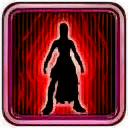
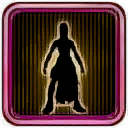
Промежуточный коммит 228.

diff --git a/WaaaHa!-patcher.React/src/gameData/layouts.ts b/WaaaHa!-patcher.React/src/gameData/layouts.ts
@@ -25,6 +25,17 @@ import type { FactionKey } from './factions'
  *       WeaponUpgrade: ['marine_flamer'],
  *     },
  *   },
+ * 
+ * Ключ	Фракция
+*   marine	Космодесант
+*   chaos	Хаос
+*   ork	Орки
+*   eldar	Эльдары
+*   tau	Тау
+*   necron	Некроны
+*   guard	Имперская гвардия
+*   dark_eldar	Тёмные эльдары
+*   sisters	Сестры битвы
  *
  * Отдельных списков «Войска» и «Строения» нет, и писать их не нужно: левая
  * колонка сетки берёт «Войска» из Infantry с Vehicle, а «Строения» из Building.
@@ -210,6 +221,8 @@ export const PANEL_COMMANDS: readonly string[] = [
   
   'cancel_overwatch',
   'toggle_overwatch',
+  PANEL_ROW_BREAK,
+  'camera_panleft', 'camera_panright', 'camera_panup', 'camera_pandown', 'camera_rotate', 'camera_defaultcam',
 ]
 
 /** Состав рас. */
@@ -251,9 +264,46 @@ export const FACTION_ROSTERS: Readonly<Partial<Record<FactionKey, FactionRoster>
       Addon: [
         'marine_hq_addon_1', 'marine_hq_addon_2', 'marine_missile_launcher_turret', 'marine_listening_post_1', 'marine_listening_post_2',
         'marine_heavy_armor_deployment'
-      ],
+      ]
      },
    },
+
+   sisters: {
+    sections: {
+      Infantry: [
+        'sisters_servitor', 'sisters_missionary', 'sisters_battle_sister', 'sisters_canoness', 'sisters_seraphim', 'sisters_celestian', 'sisters_confessor',
+        'sisters_assassin', 'sisters_repentia', 'sisters_ascension_angel', 'sisters_living_saint'
+      ],
+      Vehicle: [
+        'sisters_rhino', 'sisters_immolator_tank', 'sisters_lightning', 'sisters_exorcist_tank', 'sisters_penitent_engine'
+      ],
+      Building: [
+        'sisters_hq', 'sisters_infantry', 'sisters_listening_post', 'sisters_generator', 'sisters_sanctuary', 'sisters_holy_reliquary', 'sisters_thermo_generator',
+        'sisters_vehicle_building', 'sisters_turret_flamer', 'sisters_mines', 'sisters_shrine'
+      ],
+      Ability: [
+        'sisters_laud_hailer', 'sisters_lay_hands', 'sisters_emperors_touch', 'sisters_divine_retribution', 'sisters_divine_light',
+        'sisters_ascension', 'sisters_phosphor_grenades', 'sisters_krak_grenades', 'jump', 'sisters_angelic_visage', 'sisters_witch_hammer',
+        'sisters_divine_pronouncement', 'sisters_righteous_fervor', 'sisters_ardent_flame'
+      ],
+      Research: [
+        'sisters_research_emperors_touch', 'sisters_research_divine_retribution', 'sisters_research_phosphor_grenades', 'sisters_research_krak_grenades',
+        'sisters_upgrade_requisition_1', 'sisters_upgrade_requisition_2', 'sisters_upgrade_power_1', 'sisters_upgrade_power_2',
+        'sisters_research_max_weapons', 'sisters_research_zealot_charge', 'sisters_research_blessed_ammunition',
+        'sisters_research_health', 'sisters_research_health_2', 'sisters_research_ranged_damage', 'sisters_research_ranged_damage_2',
+        'sisters_research_leader_melee_1', 'sisters_research_leader_melee_2', 'sisters_research_leader_range', 'sisters_research_laud_hailer',
+        'sisters_research_vehicle_armor', 'sisters_vehicle_cap', 'sisters_research_conflagration', 'sisters_research_holy_promethium',
+        'sisters_research_commander_health_1', 'sisters_research_commander_health_2', 'sisters_research_divine_pronouncement', 'sisters_research_ascension',
+        'sisters_research_martyrs_gift', 'sisters_research_faithful_morale', 'sisters_upgrade_heart_of_worship',
+      ],
+      WeaponUpgrade: [
+        'sisters_flamer', 'sisters_heavy_bolter', 'sisters_meltagun', 'sisters_multi_melta'
+      ],
+      Addon: [
+        'addon_sisters_hq_1', 'addon_sisters_hq_2', 'addon_sisters_turret', 'addon_sisters_list_post_1', 'addon_sisters_list_post_2', 'addon_sisters_holy_icon'
+      ]
+    }
+   }
 }
 
 /** Панели юнитов и строений.
@@ -267,6 +317,163 @@ export const FACTION_ROSTERS: Readonly<Partial<Record<FactionKey, FactionRoster>
   },
 */
 export const UNIT_LAYOUTS: Readonly<Record<string, UnitLayout>> = {
+
+  sisters_servitor: {
+    command: [
+      'move', 'stop', '', '',
+      'build', 'repair', '', '',
+      'sisters_dismantle'
+    ],
+    second: [
+      'sisters_hq', 'sisters_infantry', 'sisters_listening_post', 'sisters_generator',
+      'sisters_sanctuary', 'sisters_vehicle_building', 'sisters_holy_reliquary', 'sisters_thermo_generator',
+      'sisters_shrine', 'sisters_mines', 'sisters_turret_flamer', 'escape'
+    ],
+    improvements: ['']
+  },
+
+  sisters_missionary: {
+    command: [
+      'move', 'stop', 'attackmove', 'attackmelee',
+      '', '', '@panel_yellow', '@panel_melee',
+      'sisters_lay_hands', 'sisters_emperors_touch', 'sisters_divine_retribution'
+    ],
+    second: [''],
+    improvements: [
+      '', '',
+      '', '',
+      '', '',
+      'attach'
+    ]
+  },
+
+  sisters_battle_sister: {
+    command: [
+      'move', 'stop', 'attackmove', 'attackmelee',
+      '', 'sisters_phosphor_grenades', '@panel_yellow', '@panel_gun',
+    ],
+    second: [''],
+    improvements: [
+      'reinforce', 'sisters_veteran_superior',
+      'sisters_flamer', 'sisters_heavy_bolter',
+    ]
+  },
+
+  sisters_canoness: {
+    command: [
+      'move', 'stop', 'attackmove', 'attackmelee',
+      'sisters_ascension', '', '@panel_yellow', '@panel_melee',
+      'sisters_divine_light'
+    ],
+    second: [''],
+    improvements: [
+      '', '',
+      '', '',
+      '', '',
+      'attach'
+    ]
+  },
+
+  sisters_seraphim: {
+    command: [
+      'move', 'stop', 'attackmove', 'attackmelee',
+      '', 'sisters_krak_grenades', '@panel_yellow', '@panel_gun',
+      'sisters_angelic_visage', '', '', 'jump'
+    ],
+    second: [''],
+    improvements: ['reinforce', 'sisters_veteran_superior_seraphim']
+  },
+
+  sisters_celestian: {
+    command: [
+      'move', 'stop', 'attackmove', 'attackmelee',
+      '', 'sisters_krak_grenades', '@panel_yellow', '@panel_gun',
+    ],
+    second: [''],
+    improvements: [
+      'reinforce', '',
+      'sisters_veteran_superior_celestian', 'sisters_celestian_imagifer',
+      'sisters_meltagun', 'sisters_multi_melta'
+    ]
+  },
+
+  sisters_confessor: {
+    command: [
+      'move', 'stop', 'attackmove', 'attackmelee',
+      '', '', '@panel_yellow', '@panel_melee',
+      'sisters_witch_hammer'
+    ],
+    second: [
+      '', '', '', '',
+      '', '', '', '',
+      'sisters_divine_pronouncement', 'sisters_witch_hammer'
+    ],
+    improvements: [
+      '', '',
+      '', '',
+      '', '',
+      'attach'
+    ]
+  },
+
+  sisters_assassin: {
+    command: [
+      'move', 'stop', 'attackmove', 'attackmelee',
+      '', '', '@panel_yellow'
+    ],
+    second: [''],
+    improvements: ['']
+  },
+
+  sisters_repentia: {
+    command: [
+      'move', 'stop', 'attackmove', 'attackmelee',
+      '', 'sisters_righteous_fervor', '@panel_yellow'
+    ],
+    second: [''],
+    improvements: ['reinforce', 'sisters_repentia_mistress']
+  },
+
+  sisters_hq: {
+    command: [
+      'sisters_servitor', 'sisters_missionary', '', 'sisters_confessor',
+      'sisters_research_emperors_touch', 'sisters_research_divine_retribution', '', '',
+      'addon_sisters_hq_1', '', '', 'sisters_laud_hailer'
+    ],
+    second: [
+      '', '', '', '',
+      '', '', '', '',
+      'addon_sisters_hq_2'
+    ],
+    improvements: ['rally', '@panel_yellow']
+  },
+
+  sisters_infantry: {
+    command: [
+      'sisters_canoness', 'sisters_battle_sister', 'sisters_seraphim', 'sisters_celestian',
+      'sisters_assassin', 'sisters_repentia', '', '',
+      'sisters_squad_cap', 'sisters_research_phosphor_grenades', 'sisters_research_krak_grenades', 'sisters_laud_hailer'
+    ],
+    second: [''],
+    improvements: ['rally', '@panel_yellow']
+  },
+
+  sisters_listening_post: {
+    command: [
+      'addon_sisters_list_post_1', 'addon_sisters_list_post_2', '', '',
+      'sisters_upgrade_requisition_1', '', '', '',
+      'addon_sisters_holy_icon'
+    ],
+    second: [
+      '', '', '', '',
+      'sisters_upgrade_requisition_2'
+    ],
+    improvements: [
+      '', '',
+      '', 'attack'
+    ]
+  },
+
   marine_servitor: {
     command: ['move', 'stop', '', '', 'build', 'repair'],
     second: [
@@ -519,12 +726,12 @@ export const UNIT_LAYOUTS: Readonly<Record<string, UnitLayout>> = {
 
   marine_listening_post: {
     command: [
-      'marine_listening_post_1', '', '', '',
+      'marine_listening_post_1', 'marine_listening_post_2', '', '',
       'marine_requisition_research_1', '', '', '',
       'marine_skull_probe'
     ],
     second: [
-      '', 'marine_listening_post_2', '', '',
+      '', '', '', '',
       'marine_requisition_research_2'
     ],
     improvements: [
@@ -663,7 +870,10 @@ export const COMMAND_ALIASES: Readonly<Record<string, string>> = {
   detach: 'attach',
   marine_dreadnought_assault_cannon: 'marine_assault_cannon',
   marine_lascannon_2: 'marine_lascannon_1',
-  marine_dreadnought_lascannon_twin: 'marine_lascannon_twin'
+  marine_dreadnought_lascannon_twin: 'marine_lascannon_twin',
+  sisters_research_health_2: 'sisters_research_health',
+  sisters_research_ranged_damage_2: 'sisters_research_ranged_damage',
+  sisters_repentia_mistress: 'leader',
 }
 
 /** Настоящая команда за именем из раскладки: само имя либо то, на что оно указывает. */
